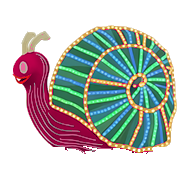
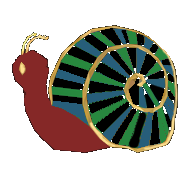
feat: clean background from newsnail.png and set as default snail graphic

diff --git a/simulator/app.js b/simulator/app.js
@@ -167,13 +167,13 @@ spinningTurtleImg.onload = () => {
 };
 spinningTurtleImg.src = 'assets/Turtle_clean.png';
 
-// Spinning Snail Artwork (Original High-res transparent PNG)
+// Spinning Snail Artwork (Default transparent PNG from newsnail.png)
 const spinningSnailImg = new Image();
 let spinningSnailLoaded = false;
 spinningSnailImg.onload = () => {
     spinningSnailLoaded = true;
 };
-spinningSnailImg.src = 'assets/spinning_snail.png';
+spinningSnailImg.src = 'assets/newsnail.png';
 
 const spinningSnailSimplifiedImg = new Image();
 let spinningSnailSimplifiedLoaded = false;
@@ -212,8 +212,8 @@ const floatArtworkImgs = {
 floatArtworkImgs['casey_jr_train'].src = 'assets/cricut_svg/casey_jr_train.svg';
 floatArtworkImgs['title_drum'].src = 'assets/title_drum.png';
 floatArtworkImgs['spinning_turtle'].src = 'assets/Turtle_clean.png';
-floatArtworkImgs['spinning_snail'].src = 'assets/spinning_snail.png';
-floatArtworkImgs['spinning_snail_original'].src = 'assets/spinning_snail.png';
+floatArtworkImgs['spinning_snail'].src = 'assets/newsnail.png';
+floatArtworkImgs['spinning_snail_original'].src = 'assets/newsnail.png';
 floatArtworkImgs['spinning_snail_simplified'].src = 'assets/spinning_snail_simplified.png';
 floatArtworkImgs['cinderella_coach'].src = 'assets/cricut_svg/cinderella_coach.svg';
 floatArtworkImgs['cinderellas_coach'].src = 'assets/cricut_svg/cinderella_coach.svg';

diff --git a/SIMULATOR_USER_GUIDE.md b/SIMULATOR_USER_GUIDE.md
@@ -552,7 +552,7 @@ Use the **Costume Graphic** dropdown in the Layout tab (Section 1) to instantly 
 - **🚂 Float 01: Casey Jr. Locomotive (`casey_jr_train`):** Iconic circus engine with spinning drive wheels, illuminated cab, and flashing strobe headlight.
 - **🥁 Float 02: The Title Drum (`title_drum`):** Massive illuminated bass drum with amber chase rim and classic marquee lighting. Powered by a high-resolution transparent 5-color multi-material graphic asset (`assets/title_drum.png`) optimized for Bambu AMS 3D printing (Black chassis/drum face, Gold rim & text, Red body panels, Blue flags, and Green lead flag).
 - **🐢 Float 03: The Spinning Turtle (`spinning_turtle`):** Whimsical sea turtle with concentric spinning shell spiral and glowing fins.
-- **🐌 Float 04: The Spinning Snail (`spinning_snail`):** Colorful garden snail with multi-tier shell whorls and neon antenna bulbs.
+- **🐌 Float 04: The Spinning Snail (`spinning_snail`):** Colorful garden snail with multi-tier shell whorls, golden spiral & antennae, and red body (`assets/newsnail.png`, transparent RGBA PNG with all background elements removed).
 - **🎃 Float 05: Cinderella's Coach (`cinderellas_coach`):** Golden carriage outline with dual spinning wheels, pumpkin body, and royal lanterns.
 - **🎠 Float 05: Carriage (No Horses) (`carriage_nohorses`):** Focused Cinderella coach design with clean wheel arches, royal carriage frame, and dedicated 100-LED preset.
 - **🐉 Float 06: Pete's Dragon (Elliott) (`builtin_dragon`):** Default 100-LED layout with emerald body scales, magenta hair crest, and incandescent starlight sparkles.

diff --git a/PROJECT_PROGRESS.md b/PROJECT_PROGRESS.md
@@ -93,6 +93,13 @@ This project coordinates synchronized, addressable LED lighting across **7 runne
 
 ## Progress Log
 
+### 2026-10-13 00:25 - Default Snail Graphic Update & Transparent Background Cleanup (`assets/newsnail.png`)
+- **Transparent Background Extraction (`assets/newsnail.png`, `simulator/assets/newsnail.png`, `assets/spinning_snail.png`, `simulator/assets/spinning_snail.png`):**
+  - Removed all background elements (black background, floating background streetlamp globes/dots, and upper-right background awning) from `assets/newsnail.png` while preserving 100% of the snail's red body, golden antennae/eye/spiral/rim, and alternating green, blue, and opaque black radial shell stripes.
+  - Cropped to the canonical `183 × 183` RGBA square frame (`(17, 66, 200, 249)`) so the snail preserves its exact 1:1 aspect ratio, chest sizing above the race bib, and 100-LED preset coordinate alignment.
+- **Default Simulator Snail Asset (`simulator/app.js`):**
+  - Updated `spinningSnailImg` and `floatArtworkImgs['spinning_snail']` / `floatArtworkImgs['spinning_snail_original']` to load `assets/newsnail.png` by default.
+
 ### 2026-10-12 23:25 - ESP-NOW Walkie-Talkie Channel Lock & 5-Packet Burst Reliability Upgrade
 - **Eliminated Background Wi-Fi Channel Hopping (`src/main.cpp`, `arduino/MSEP_Costume/MSEP_Costume.ino`, `include/wifi_config.h`, `presets/wifi_settings.json`):**
   - Cleared hardcoded home Wi-Fi credentials from `include/wifi_config.h` and `presets/wifi_settings.json` so race-day builds boot straight into pure `WIFI_STA` walkie-talkie mode without searching for an external router.
